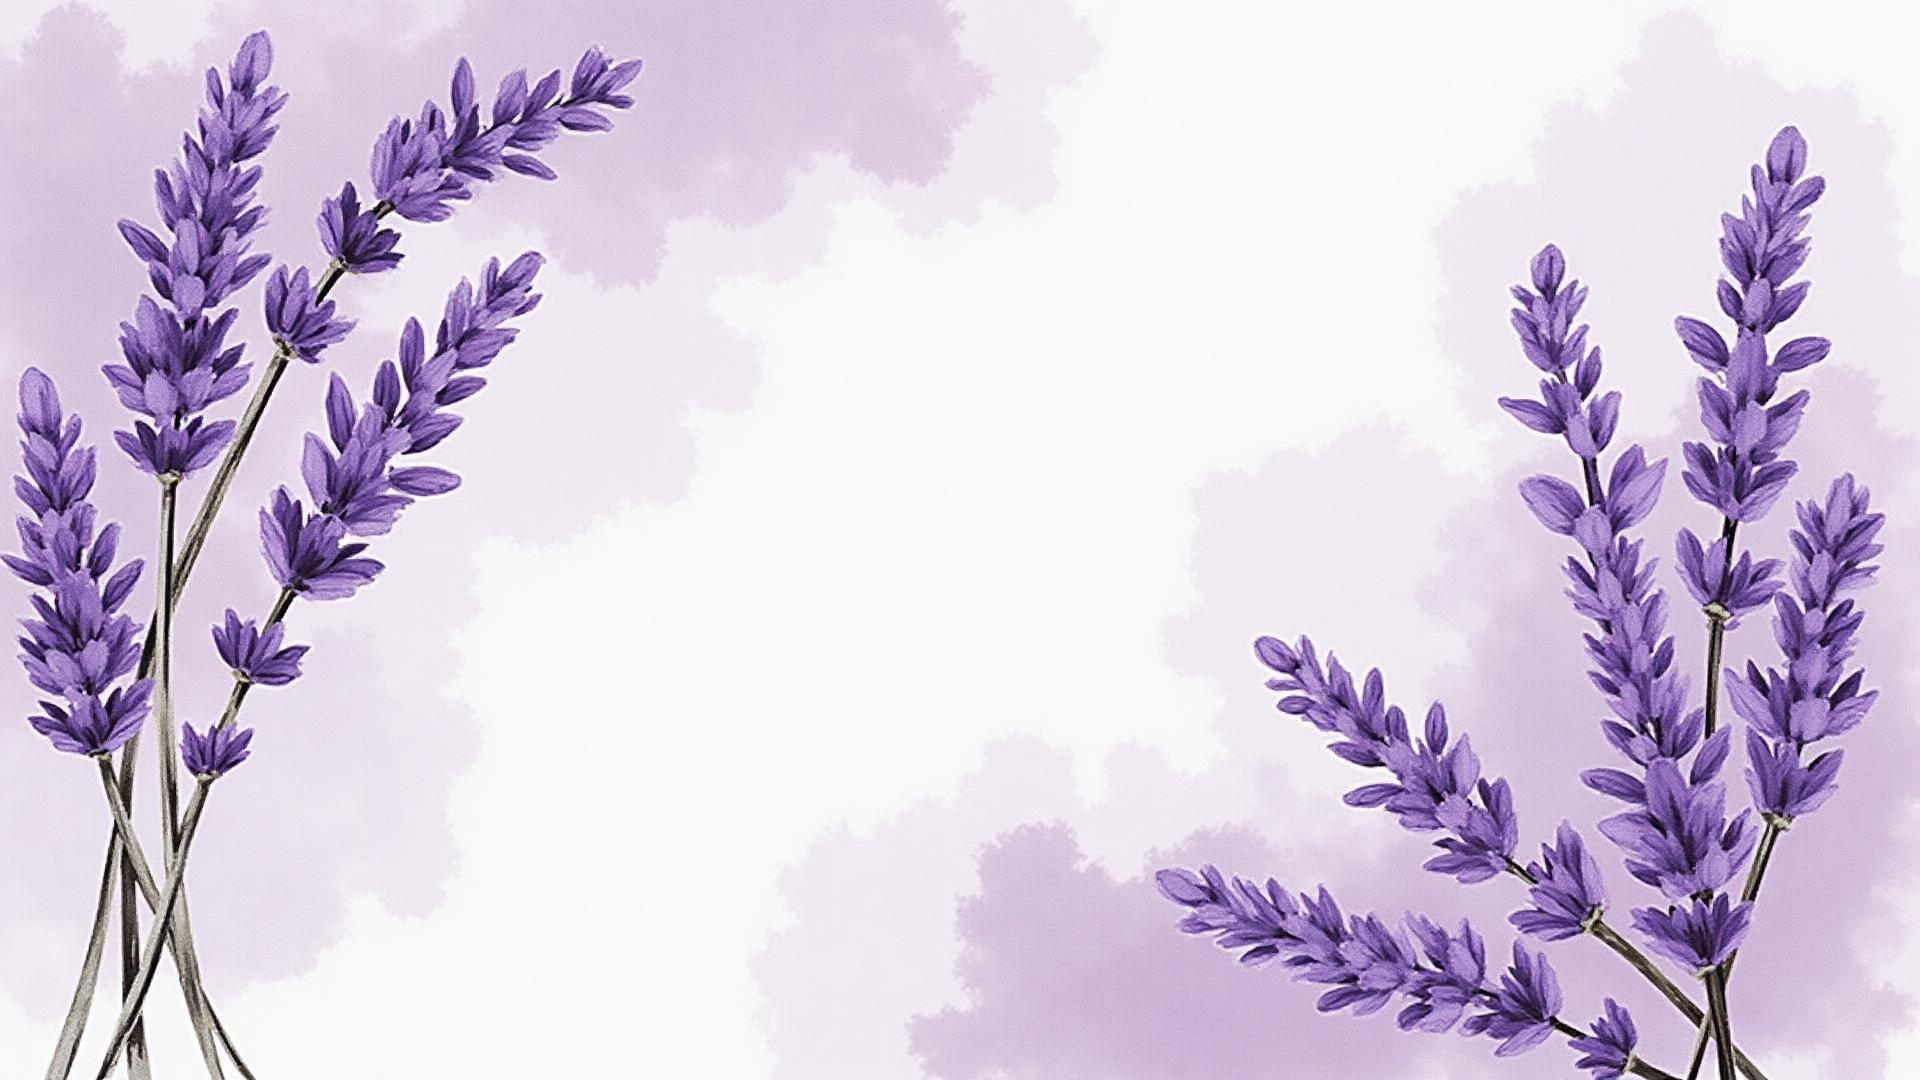
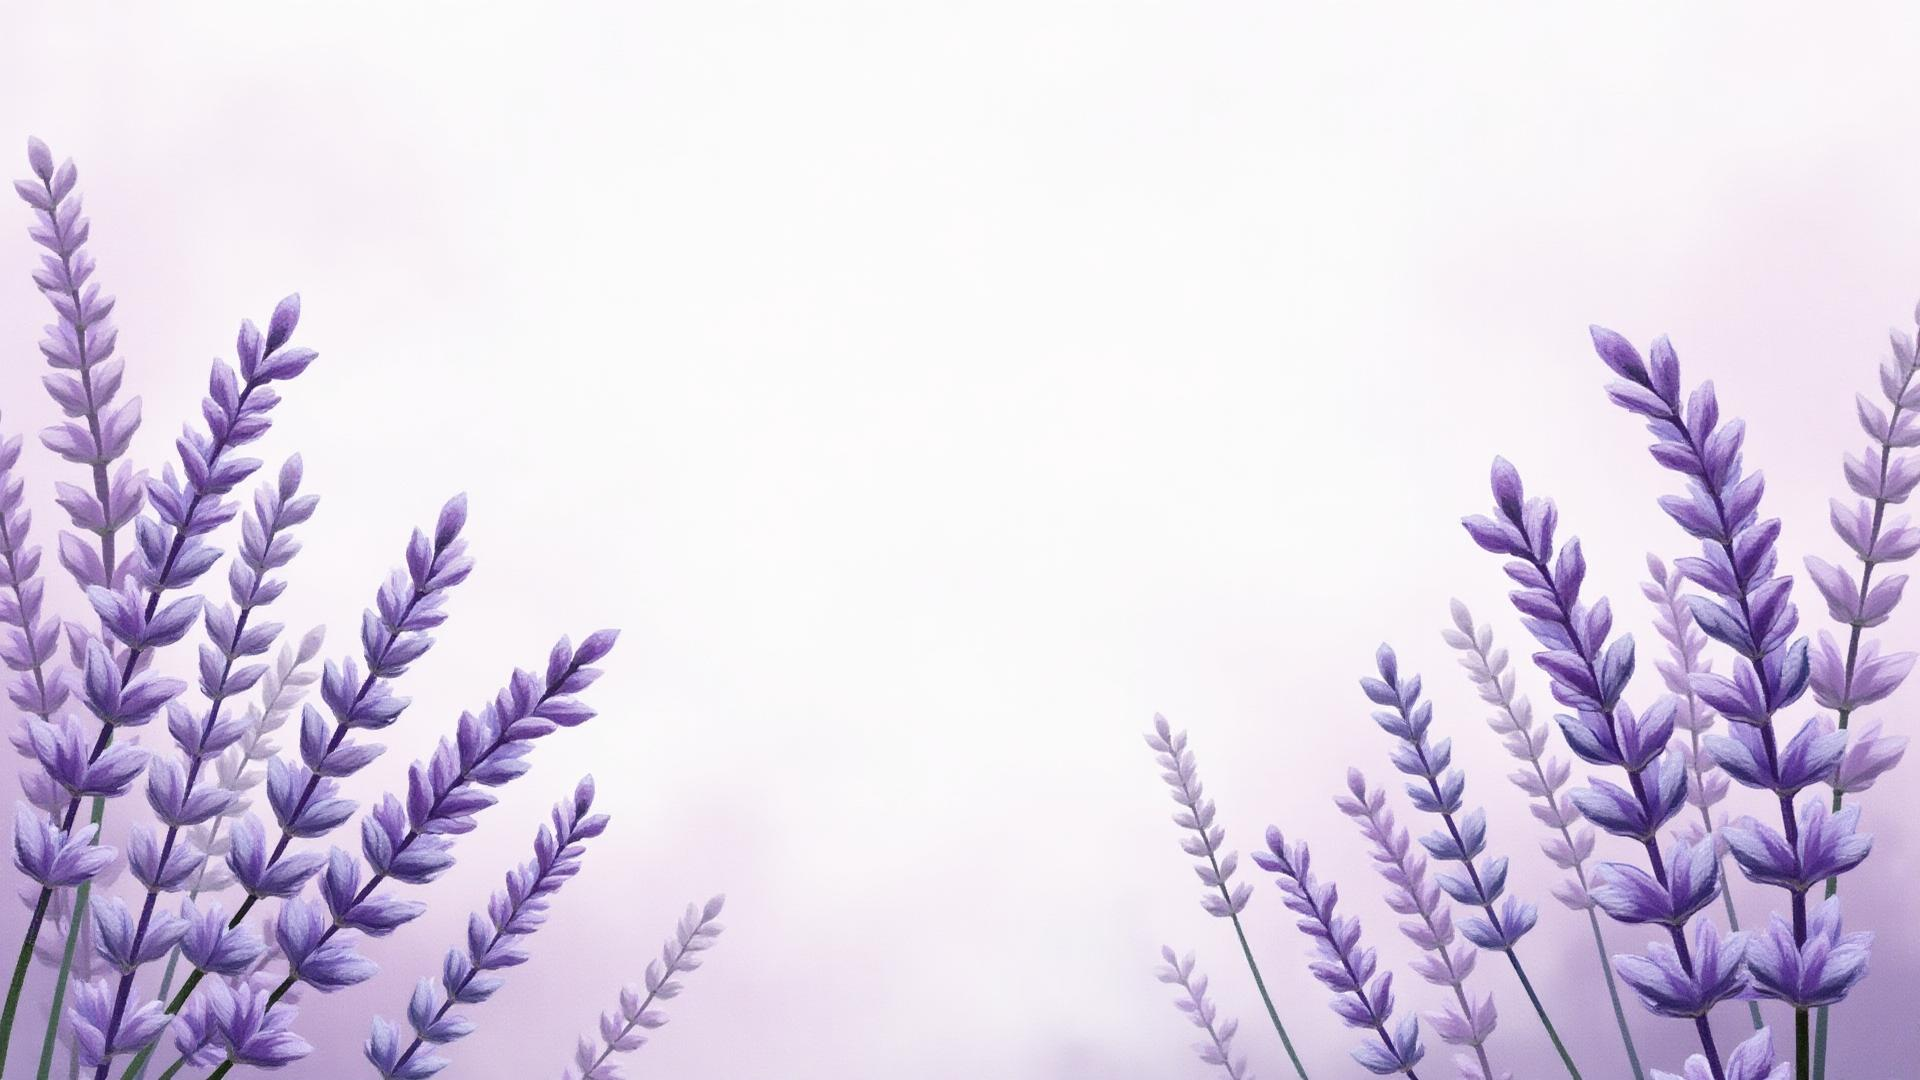
Refine theme, chat, and add FAQ
Updated background theme to be lighter and removed trees. Improved chat assistant to handle all queries and provide responses. Added a logo and attractive font for "UPI Fraud Detection". Implemented an FAQ section on the Contact page.

diff --git a/src/pages/Contact.tsx b/src/pages/Contact.tsx
@@ -169,6 +169,108 @@ const Contact = () => {
             </Card>
           </div>
         </div>
+
+        {/* FAQ Section */}
+        <div className="mt-16 max-w-4xl mx-auto">
+          <div className="text-center mb-12">
+            <h2 className="text-3xl font-heading bg-gradient-text bg-clip-text text-transparent mb-4">
+              Frequently Asked Questions
+            </h2>
+            <p className="text-lg text-muted-foreground">
+              Find answers to common questions about our fraud detection system
+            </p>
+          </div>
+
+          <div className="grid gap-6">
+            <Card className="surface-elevated border-0">
+              <CardHeader>
+                <CardTitle className="text-lg">How do I get started with fraud detection?</CardTitle>
+              </CardHeader>
+              <CardContent>
+                <p className="text-muted-foreground">
+                  Simply upload your CSV dataset or use our sample data, train the model, and start making predictions. The entire process takes just a few minutes and works directly in your browser.
+                </p>
+              </CardContent>
+            </Card>
+
+            <Card className="surface-elevated border-0">
+              <CardHeader>
+                <CardTitle className="text-lg">What data format do you accept?</CardTitle>
+              </CardHeader>
+              <CardContent>
+                <p className="text-muted-foreground">
+                  We accept CSV files with columns like TransactionID, UserID, Amount, Timestamp, Location, DeviceID, TransactionType, and FraudLabel. Our system adapts to missing columns automatically.
+                </p>
+              </CardContent>
+            </Card>
+
+            <Card className="surface-elevated border-0">
+              <CardHeader>
+                <CardTitle className="text-lg">Is my data secure?</CardTitle>
+              </CardHeader>
+              <CardContent>
+                <p className="text-muted-foreground">
+                  Absolutely! All processing happens locally in your browser using TensorFlow.js. No data leaves your device, ensuring complete privacy and security of your transaction information.
+                </p>
+              </CardContent>
+            </Card>
+
+            <Card className="surface-elevated border-0">
+              <CardHeader>
+                <CardTitle className="text-lg">How accurate is the fraud detection?</CardTitle>
+              </CardHeader>
+              <CardContent>
+                <p className="text-muted-foreground">
+                  Our models typically achieve 85-95% accuracy depending on dataset quality. We provide detailed metrics including Precision, Recall, and F1-scores to help you evaluate performance.
+                </p>
+              </CardContent>
+            </Card>
+
+            <Card className="surface-elevated border-0">
+              <CardHeader>
+                <CardTitle className="text-lg">Can I use this on mobile devices?</CardTitle>
+              </CardHeader>
+              <CardContent>
+                <p className="text-muted-foreground">
+                  Yes! Our dashboard is fully responsive and works on smartphones and tablets. You can upload data, train models, and view analytics from any device.
+                </p>
+              </CardContent>
+            </Card>
+
+            <Card className="surface-elevated border-0">
+              <CardHeader>
+                <CardTitle className="text-lg">Do you offer API integration?</CardTitle>
+              </CardHeader>
+              <CardContent>
+                <p className="text-muted-foreground">
+                  Yes, we provide REST APIs for real-time transaction screening and integration with existing payment systems. Contact us for API documentation and enterprise support.
+                </p>
+              </CardContent>
+            </Card>
+
+            <Card className="surface-elevated border-0">
+              <CardHeader>
+                <CardTitle className="text-lg">How long does model training take?</CardTitle>
+              </CardHeader>
+              <CardContent>
+                <p className="text-muted-foreground">
+                  Training time varies by dataset size: Small datasets (1K-10K transactions) take 30-60 seconds, medium datasets (10K-100K) take 2-5 minutes, and large datasets may take 5-15 minutes.
+                </p>
+              </CardContent>
+            </Card>
+
+            <Card className="surface-elevated border-0">
+              <CardHeader>
+                <CardTitle className="text-lg">Can I export my results?</CardTitle>
+              </CardHeader>
+              <CardContent>
+                <p className="text-muted-foreground">
+                  Yes! You can export trained models, prediction results, and analytics reports. The system provides various download options for integration with your existing workflows.
+                </p>
+              </CardContent>
+            </Card>
+          </div>
+        </div>
       </div>
     </div>
   );

diff --git a/src/components/ChatAssistant.tsx b/src/components/ChatAssistant.tsx
@@ -206,8 +206,44 @@ const ChatAssistant: React.FC = () => {
       return "The Live Stream page simulates real-time transaction monitoring. It processes your dataset to show how the system would detect fraud as transactions occur, complete with confidence scores and alerts.";
     }
     
+    if (lowerQuestion.includes('security') || lowerQuestion.includes('safe')) {
+      return "Your data is processed entirely in your browser using TensorFlow.js - no data leaves your device. All training and predictions happen locally, ensuring complete privacy and security of your transaction data.";
+    }
+    
+    if (lowerQuestion.includes('cost') || lowerQuestion.includes('price') || lowerQuestion.includes('free')) {
+      return "This is a demonstration version of our UPI fraud detection system. For enterprise pricing and deployment options, please contact our sales team through the Contact page.";
+    }
+    
+    if (lowerQuestion.includes('support') || lowerQuestion.includes('help') || lowerQuestion.includes('contact')) {
+      return "You can reach our support team through the Contact page, or continue chatting with me here! I'm available 24/7 to help with technical questions, usage guidance, and troubleshooting.";
+    }
+    
+    if (lowerQuestion.includes('api') || lowerQuestion.includes('integration')) {
+      return "Our fraud detection system can be integrated via REST APIs for real-time transaction screening. Contact us for API documentation and integration support for your existing payment systems.";
+    }
+    
+    if (lowerQuestion.includes('train') && lowerQuestion.includes('time')) {
+      return "Training time depends on your dataset size. Typically: Small datasets (1K-10K transactions) take 30-60 seconds, Medium datasets (10K-100K) take 2-5 minutes, and Large datasets (100K+) may take 5-15 minutes.";
+    }
+    
+    if (lowerQuestion.includes('mobile') || lowerQuestion.includes('phone')) {
+      return "Yes! Our dashboard is fully responsive and works on mobile devices. You can upload data, train models, and view analytics from your smartphone or tablet with the same functionality.";
+    }
+    
+    if (lowerQuestion.includes('export') || lowerQuestion.includes('download')) {
+      return "You can export your trained models and prediction results. The Analytics page provides download options for reports, and trained models can be saved for future use or deployment.";
+    }
+    
+    if (lowerQuestion.includes('language') || lowerQuestion.includes('localization')) {
+      return "Currently, our interface is available in English. We're working on multi-language support for global deployment. The system can process transaction data in any format regardless of region.";
+    }
+    
+    if (lowerQuestion.includes('performance') || lowerQuestion.includes('speed')) {
+      return "Our browser-based ML implementation is optimized for performance. Prediction speed is typically under 100ms per transaction, making it suitable for real-time fraud detection in high-volume environments.";
+    }
+    
     // Default helpful response
-    return "I'm here to help with any questions about the UPI Fraud Detection Dashboard! You can ask about uploading data, training models, making predictions, or understanding the analytics. What would you like to know more about?";
+    return "I'm here to help with any questions about the UPI Fraud Detection Dashboard! You can ask about uploading data, training models, making predictions, understanding analytics, security, pricing, mobile usage, API integration, or anything else. What would you like to know more about?";
   };
 
   const handleKeyPress = (e: React.KeyboardEvent) => {

diff --git a/src/components/Layout.tsx b/src/components/Layout.tsx
@@ -3,6 +3,7 @@ import { Button } from "@/components/ui/button";
 import React from "react";
 import { supabase } from "@/integrations/supabase/client";
 import ChatAssistant from "@/components/ChatAssistant";
+import logo from "@/assets/logo.png";
 
 const navItems = [
   { to: "/", label: "Home" },
@@ -45,9 +46,11 @@ export default function Layout() {
     <div className="min-h-screen flex flex-col bg-lavender-subtle">
       <header className="sticky top-0 z-40 border-b bg-background/90 backdrop-blur">
         <nav className="container mx-auto px-4 py-3 flex items-center justify-between">
-          <Link to="/" className="flex items-center gap-2 focus:outline-none">
-            <div className="w-6 h-6 rounded-md" style={{ backgroundImage: 'var(--gradient-primary)' }} aria-hidden />
-            <span className="font-semibold">UPI Fraud Detection</span>
+          <Link to="/" className="flex items-center gap-3 focus:outline-none">
+            <img src={logo} alt="UPI Fraud Detection Logo" className="w-8 h-8" />
+            <span className="font-brand text-xl bg-gradient-text bg-clip-text text-transparent">
+              UPI Fraud Detection
+            </span>
           </Link>
           <div className="flex items-center gap-1 flex-wrap">
             {navItems.map((item) => (

diff --git a/index.html b/index.html
@@ -15,6 +15,11 @@
     <meta name="twitter:card" content="summary_large_image" />
     <meta name="twitter:site" content="@lovable_dev" />
     <meta name="twitter:image" content="https://lovable.dev/opengraph-image-p98pqg.png" />
+    
+    <!-- Google Fonts -->
+    <link rel="preconnect" href="https://fonts.googleapis.com">
+    <link rel="preconnect" href="https://fonts.gstatic.com" crossorigin>
+    <link href="https://fonts.googleapis.com/css2?family=Inter:wght@300;400;500;600;700&family=Poppins:wght@300;400;500;600;700;800&display=swap" rel="stylesheet">
   </head>
 
   <body>

diff --git a/src/index.css b/src/index.css
@@ -175,4 +175,20 @@ All colors MUST be HSL.
     background: hsl(var(--background) / 0.85);
     backdrop-filter: blur(2px);
   }
+
+  /* Custom fonts */
+  .font-brand {
+    font-family: 'Poppins', sans-serif;
+    font-weight: 700;
+    letter-spacing: -0.02em;
+  }
+
+  .font-heading {
+    font-family: 'Poppins', sans-serif;
+    font-weight: 600;
+  }
+
+  .font-body {
+    font-family: 'Inter', sans-serif;
+  }
 }
